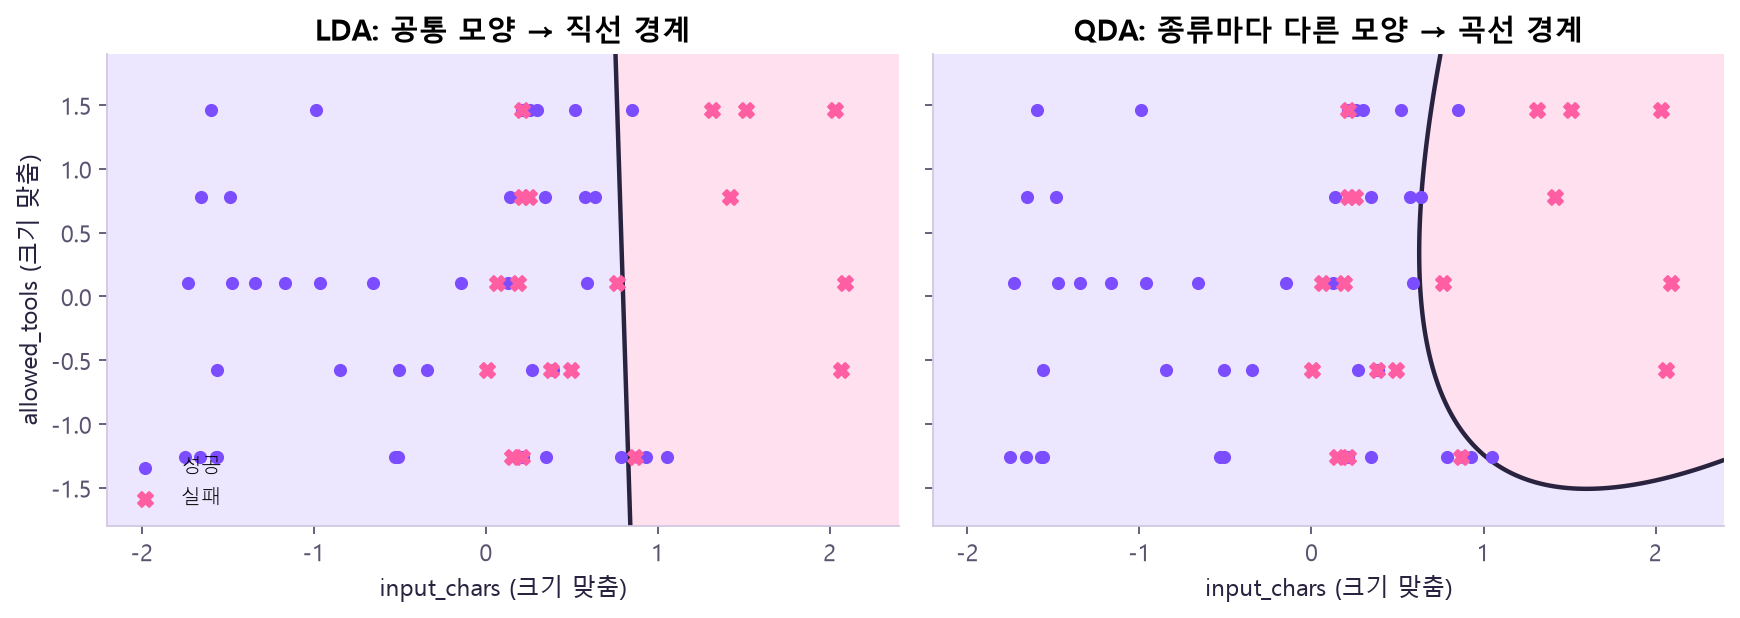
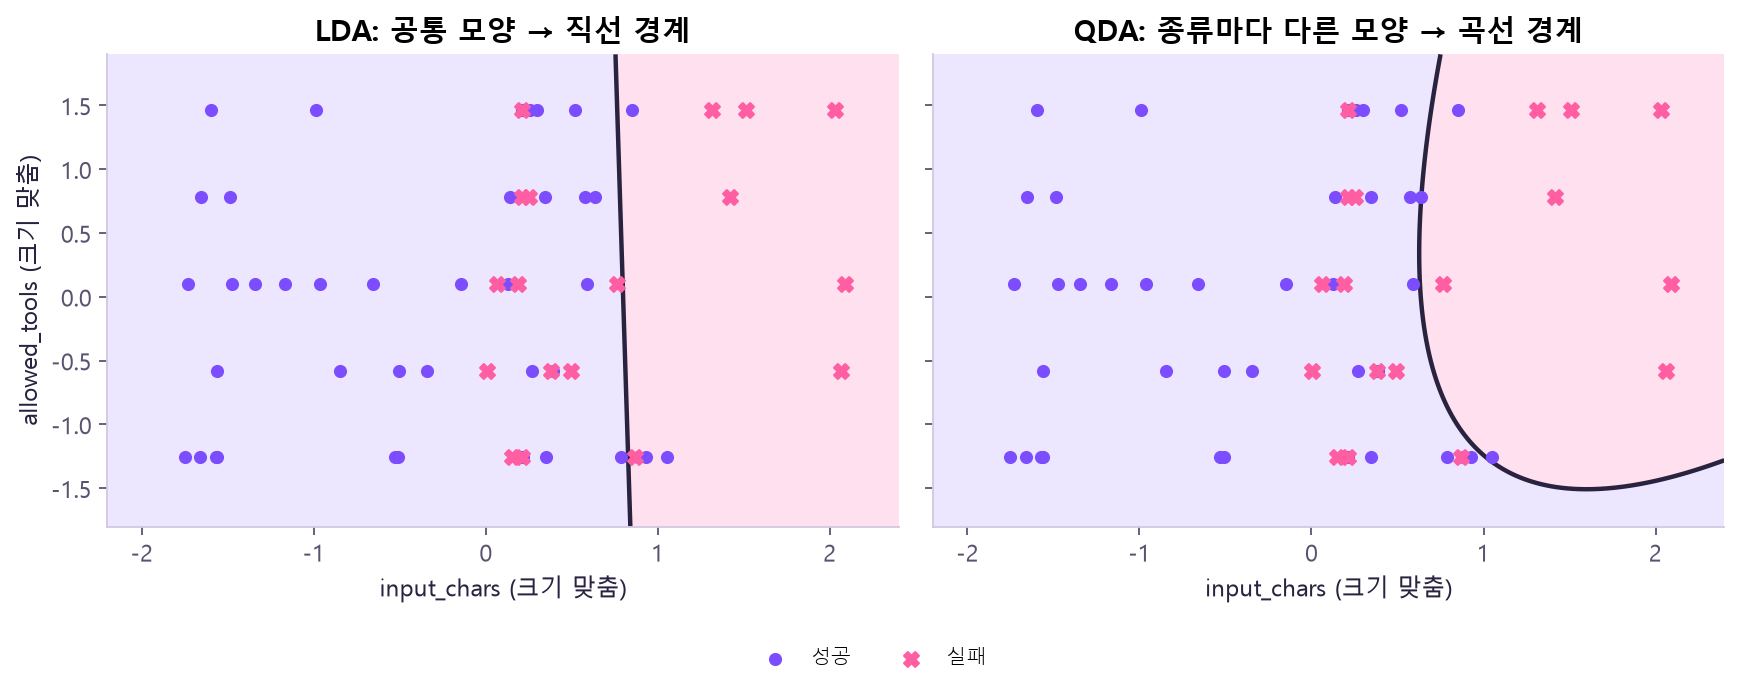
SVM 쪽 틀린 문장과 GNN 예제 코드 정리, 범례가 점을 가리던 그림 고치기
- SVM, 판별분석, 차원 축소 ⑦: "균형 SVM이 xgboost보다 흔들림도 작다"는
  틀린 문장을 고침. 실제 표준편차는 0.117로 xgboost(0.082)보다 커요.
  표준편차는 실행 값에서 채우도록 바꿈
- GNN 예제(karate_gcn.py): ①의 fit이 쓰는 F를 ①에서 import하도록 표시를
  고치고, 쓰이지 않던 forward의 keep 인자와 self.hidden을 지움
- 선형 SVM, RBF gamma, LDA와 QDA 그림: 범례가 왼쪽 아래 점 줄을 가려서
  그림 아래 바깥으로 옮김
- gen_models.py: 바로 아래 줄이 덮어쓰던 f_all 줄 삭제 (화면 결과 같음)

SVM, GNN 두 쪽은 다시 빌드했고 숫자는 모두 이전과 같아요.
실행 환경 줄만 이 PC 버전으로 바뀌었어요.

diff --git a/topics/model/ml-svm-lda-pca-data.js b/topics/model/ml-svm-lda-pca-data.js
@@ -664,7 +664,7 @@ window.PAGE = {
     ]
    ],
    "notes": [
-    "<b>svm rbf 균형</b>이 평균 0.589로 가장 높아요. 2쪽 ⑫의 xgboost(0.511)보다도 높고, 흔들림도 작아요. 모델 종류보다 \"드문 실패를 얼마나 중요하게 치느냐\"(class_weight)가 더 크게 작용했어요.",
+    "<b>svm rbf 균형</b>이 평균 0.589로 가장 높아요. 2쪽 ⑫의 xgboost(0.511)보다도 높아요. 다만 표준편차는 0.117로 xgboost(0.082)보다 커서, 덩어리마다 점수가 더 오르내려요. 모델 종류보다 \"드문 실패를 얼마나 중요하게 치느냐\"(class_weight)가 더 크게 작용했어요.",
     "선형 SVM과 LDA는 다섯 점수가 완전히 같아요. 둘 다 곧은 경계를 긋고, 이 데이터에서는 같은 쪽으로 판단했어요. 로지스틱도 거의 같아요.",
     "PCA 3개 + 로지스틱은 평균이 8열 로지스틱보다 조금 높고, 표준편차가 가장 작아요. 열을 줄이니 덜 흔들렸어요.",
     "⚠ 3쪽 ⑰에서 test는 이미 한 번 썼어요. 이 결과를 보고 test로 다시 채점하면 test로 모델을 고르는 셈이라 하지 않아요. 실제 작업이라면 이 후보들을 ⑰ 전에 함께 비교했어야 해요."
@@ -786,5 +786,5 @@ window.PAGE = {
    "균형 SVM이 1등"
   ]
  ],
- "env": "Python 3.13.5, scikit-learn 1.9.0, pandas 2.3.3"
+ "env": "Python 3.13.16, scikit-learn 1.8.0, pandas 2.2.3"
 };

diff --git a/topics/model/gnn-data.js b/topics/model/gnn-data.js
@@ -14,7 +14,7 @@ window.PAGE = {
   },
   {
    "t": "import torch.nn.functional as F",
-   "s": 2
+   "s": 1
   },
   {
    "t": "",
@@ -245,11 +245,7 @@ window.PAGE = {
    "s": 4
   },
   {
-   "t": "    def forward(self, x, keep=False):",
-   "s": 4
-  },
-  {
-   "t": "        self.hidden = []",
+   "t": "    def forward(self, x):",
    "s": 4
   },
   {
@@ -266,10 +262,6 @@ window.PAGE = {
   },
   {
    "t": "                x = F.relu(x)",
-   "s": 4
-  },
-  {
-   "t": "                self.hidden.append(x)",
    "s": 4
   },
   {
@@ -586,5 +578,5 @@ window.PAGE = {
    "과평활"
   ]
  ],
- "env": "Python 3.13.5, PyTorch 2.13.0+cpu, networkx 3.6.1, CPU (seed 0)"
+ "env": "Python 3.13.16, PyTorch 2.14.0+cu130, networkx 3.7, CPU (seed 0)"
 };

diff --git a/tools/pages/ml_more.py b/tools/pages/ml_more.py
@@ -46,6 +46,12 @@ def fig_save(fig, name):
     return f"img/ml/{name}.png"
 
 
+def legend_below(fig, ax):
+    # 왼쪽 아래 점 줄을 가리지 않게 범례를 그림 아래 바깥에 둬요
+    h, lab = ax.get_legend_handles_labels()
+    fig.legend(h, lab, loc="upper center", bbox_to_anchor=(0.5, 0.0), ncol=len(lab), fontsize=9, frameon=False)
+
+
 def chart(title, path, cap, notes):
     o = S.images(title, [(path, cap)], notes)
     o["chart"] = True
@@ -79,7 +85,7 @@ ax.contourf(g1, g2, (F >= 0).astype(int), levels=[-.5, .5, 1.5], cmap=BG)
 ax.contour(g1, g2, F, levels=[-1, 0, 1], colors=[C["gray"], C["ink"], C["gray"]], linestyles=["--", "-", "--"], linewidths=[1.2, 2, 1.2])
 scatter2(ax, lin2.support_)
 ax.set(ylabel="allowed_tools (크기 맞춤)", title=f"선형 SVM (C=1): 서포트 벡터 {len(lin2.support_)}개 / 60건")
-ax.legend(fontsize=9, loc="lower left")
+legend_below(fig, ax)
 P_LIN = fig_save(fig, "svm_linear_margin")
 # ③ RBF gamma 그림
 fig, axs = plt.subplots(1, 3, figsize=(13, 3.9), sharey=True)
@@ -89,7 +95,7 @@ for ax, g in zip(axs, (0.1, 1, 10)):
     scatter2(ax)
     ax.set(title=f"gamma = {g}  (train 정확도 {ACC(y2, m.predict(X2)):.2f})")
 axs[0].set_ylabel("allowed_tools (크기 맞춤)")
-axs[0].legend(fontsize=9, loc="lower left")
+legend_below(fig, axs[0])
 P_RBF = fig_save(fig, "svm_rbf_gamma")
 # ④ LDA 한 줄 사영
 z, yt = ns["lda_z"], ns["y_train"].to_numpy()
@@ -111,7 +117,7 @@ for ax, (nm, m) in zip(axs, [("LDA: 공통 모양 → 직선 경계", LinearDisc
     scatter2(ax)
     ax.set(title=nm)
 axs[0].set_ylabel("allowed_tools (크기 맞춤)")
-axs[0].legend(fontsize=9, loc="lower left")
+legend_below(fig, axs[0])
 P_QDA = fig_save(fig, "lda_vs_qda")
 # ⑥ PCA
 ratio = ns["ratio"]
@@ -179,7 +185,7 @@ cvs = ns["cv_scores"]
 best_name = max(cvs, key=lambda k: cvs[k].mean())
 outs["s7"] = S.table("⑦ 5-fold 교차검증 F1 (train+valid 80건, 2쪽 ⑫와 같은 나누기)", ["model", "다섯 번의 점수", "평균", "표준편차"],
                      [[f"<b>{m}</b>" if m == best_name else m, ", ".join(f3(x) for x in v), f"<b>{f3(v.mean())}</b>" if m == best_name else f3(v.mean()), f3(v.std())] for m, v in cvs.items()],
-                     [f"<b>{best_name}</b>이 평균 {cvs[best_name].mean():.3f}로 가장 높아요. 2쪽 ⑫의 xgboost(0.511)보다도 높고, 흔들림도 작아요. 모델 종류보다 \"드문 실패를 얼마나 중요하게 치느냐\"(class_weight)가 더 크게 작용했어요.",
+                     [f"<b>{best_name}</b>이 평균 {cvs[best_name].mean():.3f}로 가장 높아요. 2쪽 ⑫의 xgboost(0.511)보다도 높아요. 다만 표준편차는 {cvs[best_name].std():.3f}로 xgboost(0.082)보다 커서, 덩어리마다 점수가 더 오르내려요. 모델 종류보다 \"드문 실패를 얼마나 중요하게 치느냐\"(class_weight)가 더 크게 작용했어요.",
                       "선형 SVM과 LDA는 다섯 점수가 완전히 같아요. 둘 다 곧은 경계를 긋고, 이 데이터에서는 같은 쪽으로 판단했어요. 로지스틱도 거의 같아요.",
                       f"PCA {ns['k70']}개 + 로지스틱은 평균이 8열 로지스틱보다 조금 높고, 표준편차가 가장 작아요. 열을 줄이니 덜 흔들렸어요.",
                       "⚠ 3쪽 ⑰에서 test는 이미 한 번 썼어요. 이 결과를 보고 test로 다시 채점하면 test로 모델을 고르는 셈이라 하지 않아요. 실제 작업이라면 이 후보들을 ⑰ 전에 함께 비교했어야 해요."])

diff --git a/examples/gnn/karate_gcn.py b/examples/gnn/karate_gcn.py
@@ -5,7 +5,7 @@
 import networkx as nx                                            #@1
 import torch                                                     #@1
 from torch import nn                                             #@2
-import torch.nn.functional as F                                  #@2
+import torch.nn.functional as F                                  #@1
 
 # ① 그래프를 Tensor로
 g = nx.karate_club_graph()
@@ -63,13 +63,11 @@ class GCN(nn.Module):
             return A_hat @ h
         return torch.stack([h[A_hat[i] > 0].max(0).values for i in range(n)])  # max
 
-    def forward(self, x, keep=False):
-        self.hidden = []
+    def forward(self, x):
         for i, lin in enumerate(self.layers):
             x = self.gather(lin(x))                # 모든 사람에게 같은 가중치로 바꾼 뒤 이웃끼리 모으기
             if i < len(self.layers) - 1:
                 x = F.relu(x)
-                self.hidden.append(x)
         return x
 
 torch.manual_seed(0)
